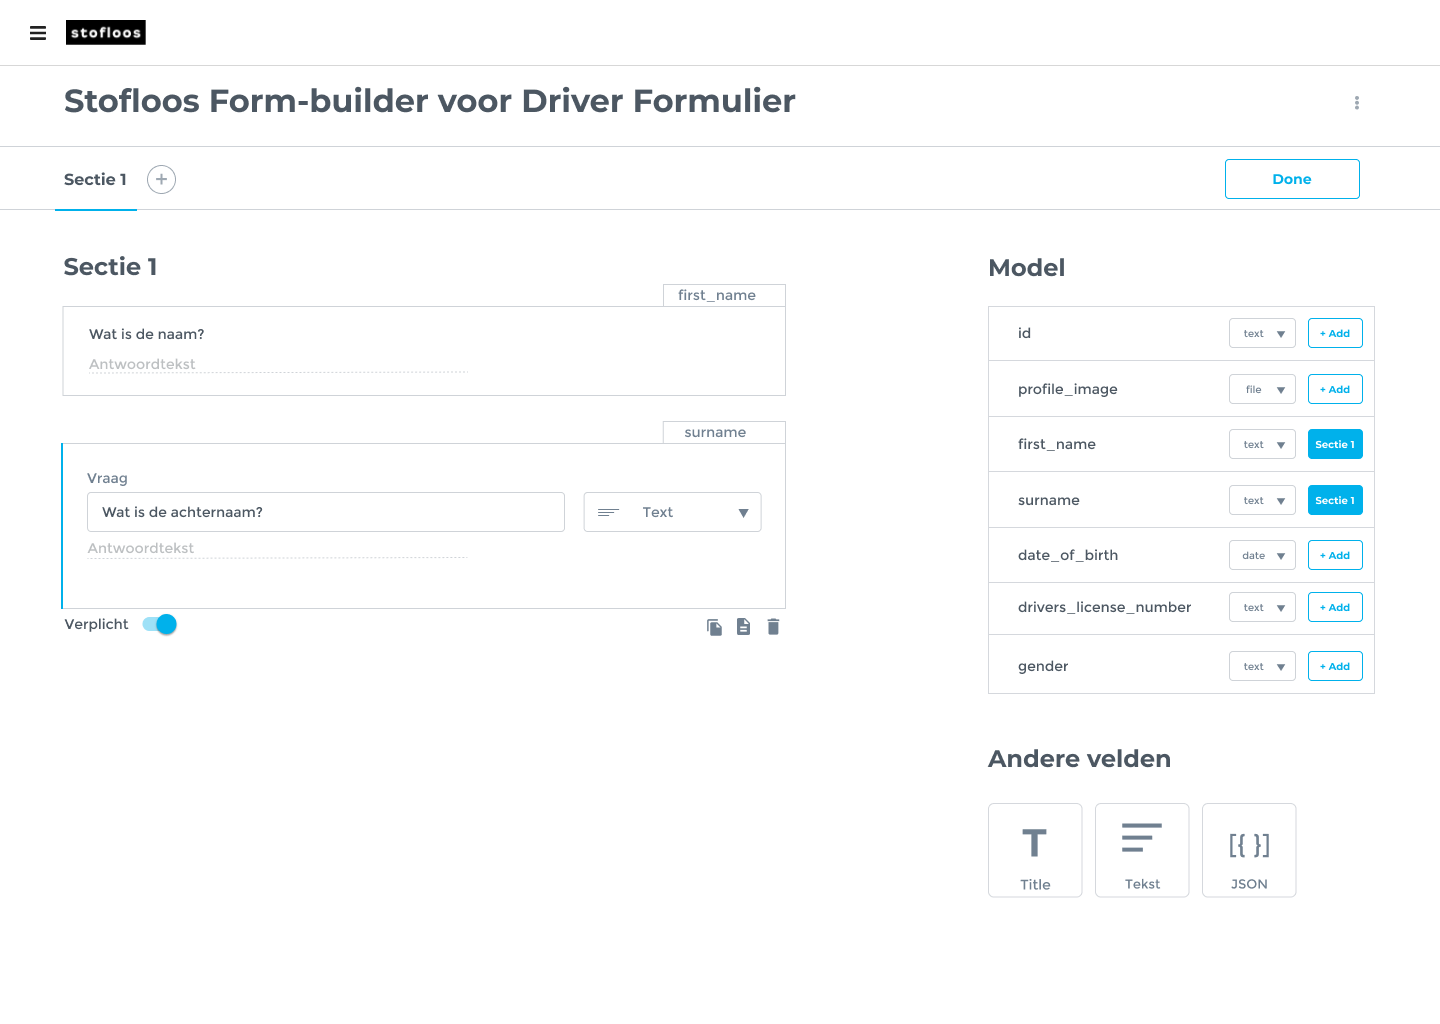
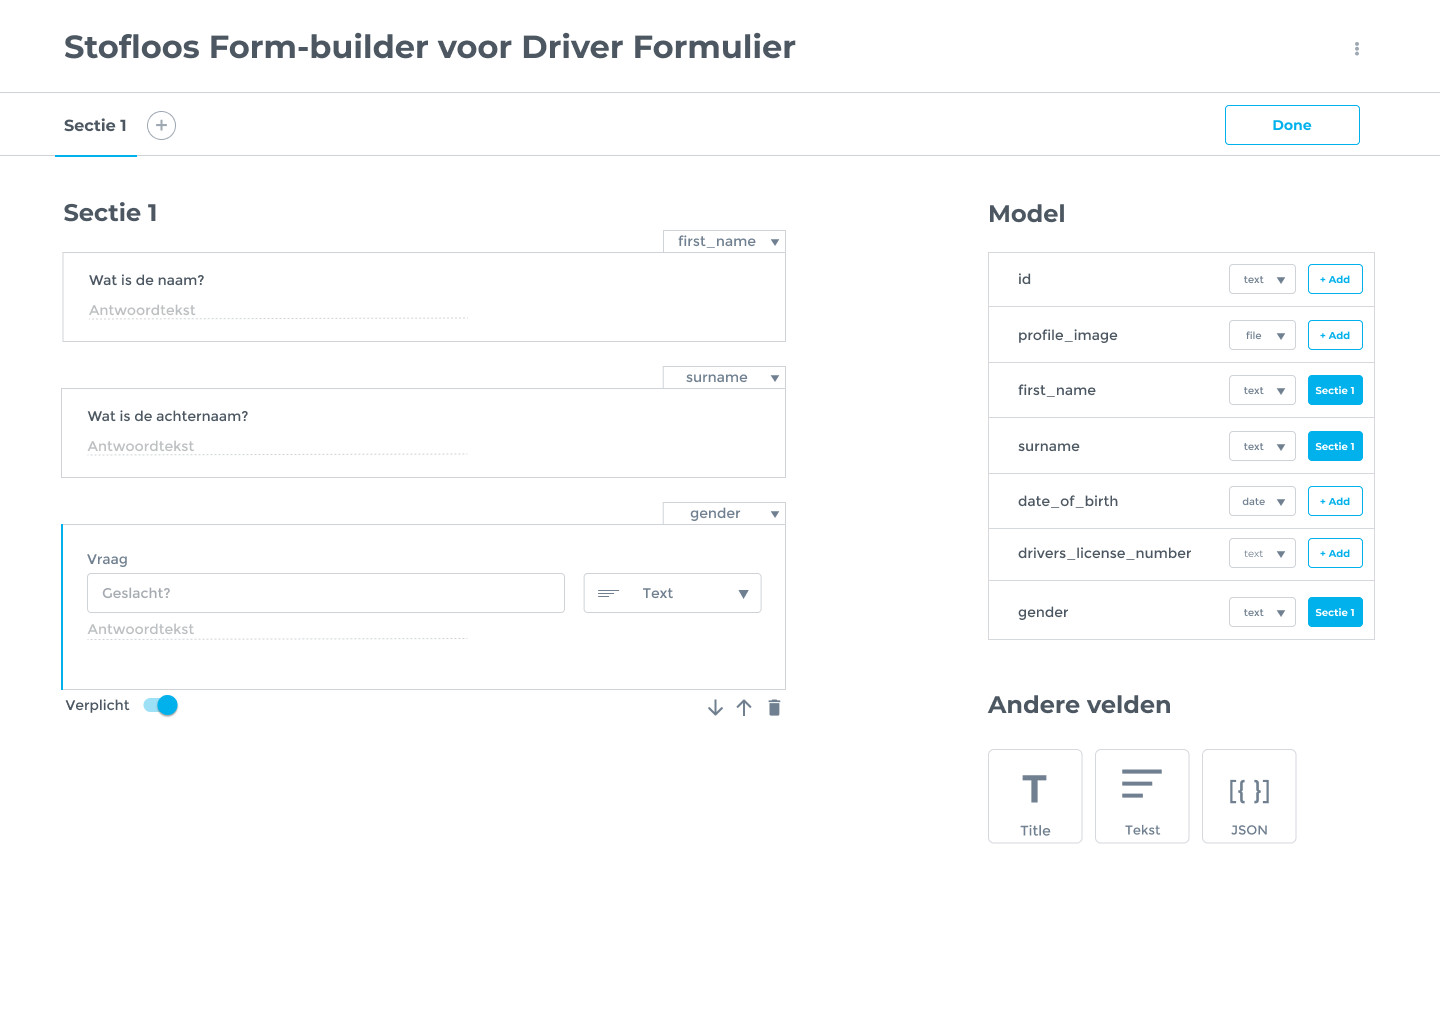
Added ontwerpdocument

diff --git a/src/components/pages/OntwerpDocument.tsx b/src/components/pages/OntwerpDocument.tsx
@@ -1,12 +1,15 @@
 import React, { useEffect, useRef } from "react";
 import FadeIn from "react-fade-in";
-import TableDefault from "../../img/a-TableDefault.jpg";
+import Ontwerp from "../../img/ontwerpV1.png";
+import OntwerpBorders from "../../img/ontwerpV1Borders.png";
+import Figma from "../../img/figma.png";
 import Zoom from "react-medium-image-zoom";
 import "react-medium-image-zoom/dist/styles.css";
 import { FontAwesomeIcon } from "@fortawesome/react-fontawesome";
 import { faArrowLeft } from "@fortawesome/free-solid-svg-icons";
 import Tooltip from "../common/Tooltip";
 import InlineLink from "../common/InlineLink";
+import { Link } from "react-router-dom";
 
 const scrollToRef = (ref: any, offset: number) =>
   window.scrollTo({ top: ref.current.offsetTop + offset, behavior: "smooth" });
@@ -19,7 +22,7 @@ const Page: React.FC = () => {
   const Aanleiding = useRef(null);
   const Uitvoering = useRef(null);
   const GeheleOnderzoek = useRef(null);
-  const Conclusie = useRef(null);
+  // const Conclusie = useRef(null);
 
   const executeScroll = (reference: any, offset?: number) => {
     if (typeof offset === "undefined") {
@@ -36,17 +39,17 @@ const Page: React.FC = () => {
         </div>
         <div className="pagenav__nav__buttons">
           <button onClick={() => executeScroll(Aanleiding, 120)}>
-            Aanleiding
+            Resultaat
           </button>
           <button onClick={() => executeScroll(Uitvoering, 120)}>
-            Uitvoering
+            Eigenschappen
           </button>
           <button onClick={() => executeScroll(GeheleOnderzoek, 120)}>
-            Gehele onderzoek
+            Design guidelines
           </button>
-          <button onClick={() => executeScroll(Conclusie, 120)}>
+          {/* <button onClick={() => executeScroll(Conclusie, 120)}>
             Conclusie
-          </button>
+          </button> */}
         </div>
         <div className="o-pagenav__fill"></div>
       </div>
@@ -56,63 +59,164 @@ const Page: React.FC = () => {
             <h1>Ontwerp Document</h1>
             <div>
               <div ref={Aanleiding}>
-                <h2>Aanleiding</h2>
+                <h2>Resultaat</h2>
                 <p>
-                  [waarom? is <Tooltip woord="JSON" /> cool ]
+                  Het resultaat wordt als eerste weergegeven omdat het handig is
+                  het totaal al gezien te hebben om er delen van uit te kunnen
+                  leggen. Het ontwerp is op Figma te bekijken.
+                  <a href="https://www.figma.com/file/1BwfTKnuGsdwQiMK0ra9Bf/form-builder">
+                    <div className="plaatje figma">
+                      <img className="image" alt="FigmaIcon" src={Figma} />
+                      <p>Bekijk hier het Figma ontwerp</p>
+                    </div>
+                  </a>
                 </p>
-              </div>
-              <div ref={Uitvoering}>
-                <h2>Uitvoering</h2>
-                <p>[uitvoering]</p>
-                <ol>
-                  <li>[Lijst item]</li>
-                  <li>[Lijst item]</li>
-                  <li>[Lijst item]</li>
-                </ol>
-              </div>
-              <div ref={GeheleOnderzoek}>
-                <h2>Gehele Onderzoek</h2>
-                <p>
-                  Het gehele onderzoek kan worden bekeken op een extern google
-                  docs document. Klik daarvoor{" "}
-                  <InlineLink
-                    text="hier"
-                    link="https://docs.google.com/document/d/1Gx76nLg9RF7ighhMSi9AHxYvGc6bT6anEdKVC2TYcrY/edit?usp=sharing"
-                  />
-                  .
-                </p>
-              </div>
-              <div ref={Conclusie}>
-                <h2>Conclusie</h2>
-                <p>[conclusie]</p>
-                <ul>
-                  <li>[bullet points]</li>
-                  <li>[bullet points]</li>
-                  <li>[bullet points]</li>
-                </ul>
-
-                <div className="s-page__content__img__container">
-                  <div className="s-page__content__img__container__img">
-                    <h3>Foto</h3>
-                    <Zoom>
-                      <img
-                        className="s-page__content__img__full"
-                        alt="brainstorm"
-                        src={TableDefault}
-                      />
-                    </Zoom>
-                  </div>
-                  <div className="s-page__content__img__container__img">
-                    <h3>How might we</h3>
-                    <Zoom>
-                      <img
-                        className="s-page__content__img__full"
-                        alt="How might we"
-                        src={TableDefault}
-                      />
-                    </Zoom>
+                <div className="s-page__content__img__container ">
+                  <div className="s-page__content__img__container__img ">
+                    <h3>Figuur 1: Ontwerp</h3>
+                    <div className=" border-1">
+                      <Zoom>
+                        <img
+                          className="s-page__content__img__full"
+                          alt="Ontwerp"
+                          src={Ontwerp}
+                        />
+                      </Zoom>
+                    </div>
                   </div>
                 </div>
+                <div ref={Uitvoering}>
+                  <h2>Eigenschappen</h2>
+                  <div>
+                    <h3>Algemeen</h3>
+                    <p>
+                      De basis van het ontwerp is voortgekomen uit voorgaande
+                      onderzoeken. In de{" "}
+                      <InlineLink
+                        link="/page/DesignPatternSearchForms"
+                        text="Design pattern search"
+                        newTab={false}
+                      />{" "}
+                      is bepaald welke elementen ten minste moesten terug komen.
+                      Daarnaast is er niet gedocumenteerde inspiratie opgedaan
+                      uit de formulier-bouwers die gezien zijn tijdens het maken
+                      van dit onderzoek.
+                    </p>
+                  </div>
+                  <div>
+                    <h3>Kleur</h3>
+                    <p>
+                      De kleuren van het ontwerp zijn bepaald door de
+                      organisatie of het bedrijf waarvoor de applicatie is. Stel
+                      dat McDonalds een klant was, zouden de knoppen en randen
+                      die in [Figuur 1] blauw zijn, geel zijn. Dit gaat mee met
+                      heel datapanel.
+                    </p>
+                  </div>
+                  <div className="flex">
+                    <div className="w-50">
+                      <h3>Indeling</h3>
+                      <p>
+                        De website is opgebouwd uit drie onderdelen. Het ontwerp
+                        heeft veel geleende elementen van andere
+                        formulier-bouwers die bekeken zijn tijdens de{" "}
+                        <InlineLink
+                          link="/page/DesignPatternSearchForms"
+                          text="Design pattern search"
+                          newTab={false}
+                        />
+                        .
+                      </p>
+                      <p>
+                        Op [Figuur 2: Ontwerp secties] zijn deze de onderdelen
+                        te zien.
+                      </p>
+                      <p>
+                        <b>Paars. </b>In het paarse vak staat de{" "}
+                        <Tooltip woord="header" />. Hierin worden de{" "}
+                        <Tooltip woord="secties" /> van de formulieren getoont
+                        en daarbij welke van deze secties op dit moment actief
+                        is. Hier kan onderscheidt gemaakt worden tussen de
+                        secties. Dit was een van de resultaten van de{" "}
+                        <InlineLink
+                          link="/page/DesignPatternSearchForms"
+                          text="Design pattern search"
+                          newTab={false}
+                        />
+                        . Ook kan het formulier worden opgeslagen.
+                      </p>
+                      <p>
+                        <b>Rood. </b>In het rode vak staat het formulier met
+                        daarin de elementen die nu in het formulier zouden
+                        verschijnen. Deze elementen zijn toegevoegd uit het{" "}
+                        <Tooltip woord="model" /> (blauw). In deze elementen is
+                        duidelijk te zien om welk element het gaat door een
+                        visuele representatie van het element
+                        (Antwoordtekst...). Ook zijn er pijlen waarmee de
+                        elementen naar boven of naar beneden geplaatst kunnen
+                        worden. Ook deze onderdelen zijn het resultaat van de{" "}
+                        <InlineLink
+                          link="/page/DesignPatternSearchForms"
+                          text="Design pattern search"
+                          newTab={false}
+                        />
+                      </p>
+                      <p>
+                        <b>Blauw. </b>In het blauwe vak staat het{" "}
+                        <Tooltip woord="model" />. Vanuit het{" "}
+                        <Tooltip woord="model" /> kunnen elementen worden
+                        toegevoegd aan het actieve formulier. Het model is
+                        gelijk aan hoe deze in de <Tooltip woord="database" />{" "}
+                        staan. Uit de{" "}
+                        <InlineLink
+                          link="/page/DesignPatternSearchForms"
+                          text="Design pattern search"
+                          newTab={false}
+                        />{" "}
+                        bleek dat er altijd een duidelijke manier moet zijn om
+                        elementen toe te voegen. Dat kan door dit deel van het
+                        formulier.
+                      </p>
+                    </div>
+                    <div className="w-50">
+                      <div className="">
+                        <h3>Figuur 2: Ontwerp secties</h3>
+                        <div className=" border-1">
+                          <Zoom>
+                            <img
+                              className="s-page__content__img__full"
+                              alt="Ontwerp"
+                              src={OntwerpBorders}
+                            />
+                          </Zoom>
+                        </div>
+                      </div>
+                    </div>
+                  </div>
+                </div>
+                <div ref={GeheleOnderzoek}>
+                  <h2>Design guidelines</h2>
+                  <p>
+                    Stofloos heeft geen design guidelines. Echter heeft Stofloos
+                    wel een ontwerpster die meerdere ontwerpen had liggen die
+                    als inspiratie gebruikt konden worden. Hier is gebruik van
+                    gemaakt. Hier staat bijvoorbeeld in wat de{" "}
+                    <Tooltip woord="margins" /> en <Tooltip woord="paddings" />{" "}
+                    moeten zijn tussen elementen. Wat de scherpte moet zijn van
+                    de hoeken (<Tooltip woord="border-radius" />) en welke
+                    kleuren er voor randen gebruikt moeten worden.
+                  </p>
+                  <a href="https://www.figma.com/file/V33Xkh7htl861Bt1Wo7T2m/Untitled?node-id=0%3A1">
+                    <div className="plaatje figma">
+                      <img className="image" alt="FigmaIcon" src={Figma} />
+                      <p>Bekijk hier het Figma ontwerp</p>
+                    </div>
+                  </a>
+                </div>
+                {/* <div ref={Conclusie}>
+                  <h2>iets</h2>
+                  <p></p>
+                </div> */}
               </div>
             </div>
           </FadeIn>

diff --git a/src/components/pages/RealisatieDocument.tsx b/src/components/pages/RealisatieDocument.tsx
@@ -47,7 +47,7 @@ const Page: React.FC = () => {
             Van JSON naar UI
           </button>
           <button onClick={() => executeScroll(GeheleOnderzoek, 120)}>
-            Realisatie
+            Functionaliteiten
           </button>
           <button onClick={() => executeScroll(Conclusie, 120)}>Process</button>
           <button onClick={() => executeScroll(AnderDing, 120)}>
@@ -65,11 +65,10 @@ const Page: React.FC = () => {
                 <h2>Van JSON naar UI</h2>
                 <div className="flex">
                   <div className="w-50">
-                    <h3>Huidige situatie</h3>
+                    <h3>Startpunt</h3>
                     <p>
-                      Op dit moment (dus voordat deze opdracht wordt
-                      geïmplementeerd in het systeem) moet er JSON worden
-                      aangepast om formulieren te maken en bewerken zoals
+                      Voordat de form-builder geïmplementeerd was, moest er JSON
+                      worden aangepast om formulieren te maken en bewerken zoals
                       weergegeven op [Figuur 1: Hoe werkt data panel].
                     </p>
                   </div>
@@ -106,7 +105,7 @@ const Page: React.FC = () => {
                 </div>
               </div>
               <div ref={GeheleOnderzoek}>
-                <h2>Realisatie</h2>
+                <h2>Functionaliteiten</h2>
                 <p>
                   De gerealiseerde applicatie heeft de volgende
                   functionaliteiten:
@@ -139,15 +138,19 @@ const Page: React.FC = () => {
                 <div>
                   <h3>Algemeen process</h3>
                   <p>
-                    Het process verliep vrij vlekkeloos. Als er problemen waren
-                    hielp Robin Dekkers ze mee op te lossen. In plaats van
-                    simpelweg te vertellen wat de oplossing van het probleem
-                    was, gaf Robin hints welke richting het op moest of legde
-                    hij in een stappenplan uit wat er moest gebeuren. Als er
-                    voor de oplossing die gegeven was een betere oplossing
-                    beschikbaar was, legde Robin uit hoe dit werkte. Op deze
-                    manier heb ik veel nieuwe technieken en functies binnen
-                    javascript leren kennen en gebruiken.
+                    Het process verliep vrij vlekkeloos. Het kwam wel eens voor
+                    dat de applicatie te ingewikkeld was of er kennis nodig was
+                    die enkel de ontwikkelaars van Data panel hebben. Als dit
+                    het geval was, werd Robin Dekkers om hulp gevraagd. In
+                    plaats van simpelweg te vertellen wat de oplossing van het
+                    probleem was, gaf Robin hints welke richting het op moest of
+                    legde hij in een stappenplan uit wat er moest gebeuren
+                    (eerst data ophalen, dan dit en dit met de data doen en
+                    daarna in het component zetten). Als er voor de oplossing
+                    die door mij gegeven was een betere oplossing beschikbaar
+                    was, legde Robin uit hoe dit werkte. Op deze manier heb ik
+                    veel nieuwe technieken en functies binnen javascript leren
+                    kennen en gebruiken.
                   </p>
                 </div>
                 <div className="flex">

diff --git a/src/styling/main.scss b/src/styling/main.scss
@@ -250,6 +250,30 @@ ol {
   display: block;
 }
 
+.border-1 {
+  border: 1px solid lightgray;
+}
+
+.plaatje {
+  cursor: pointer;
+  display: flex;
+  width: fit-content;
+  border-radius: 20px;
+
+  align-items: center;
+  .image {
+    width: 70px;
+    height: 70px;
+    border-radius: 20px;
+  }
+  p {
+    color: white;
+    padding-right: 30px;
+  }
+}
+.figma {
+  background-color: #333333;
+}
 @media only screen and (max-width: 1200px) {
   .woord {
     width: 48%;
